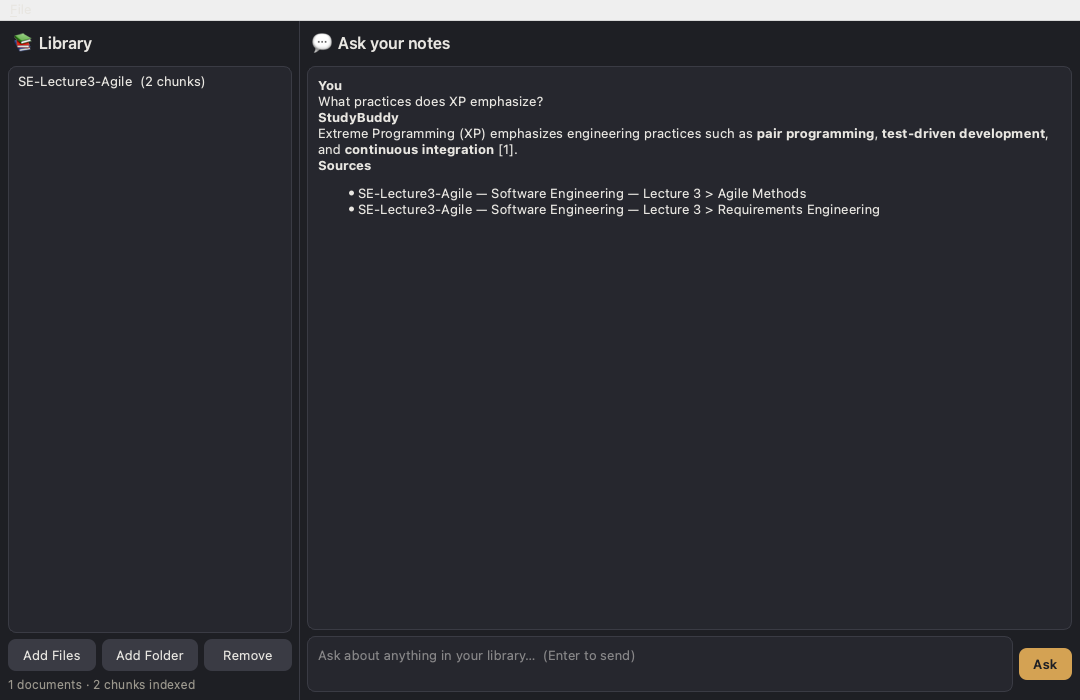
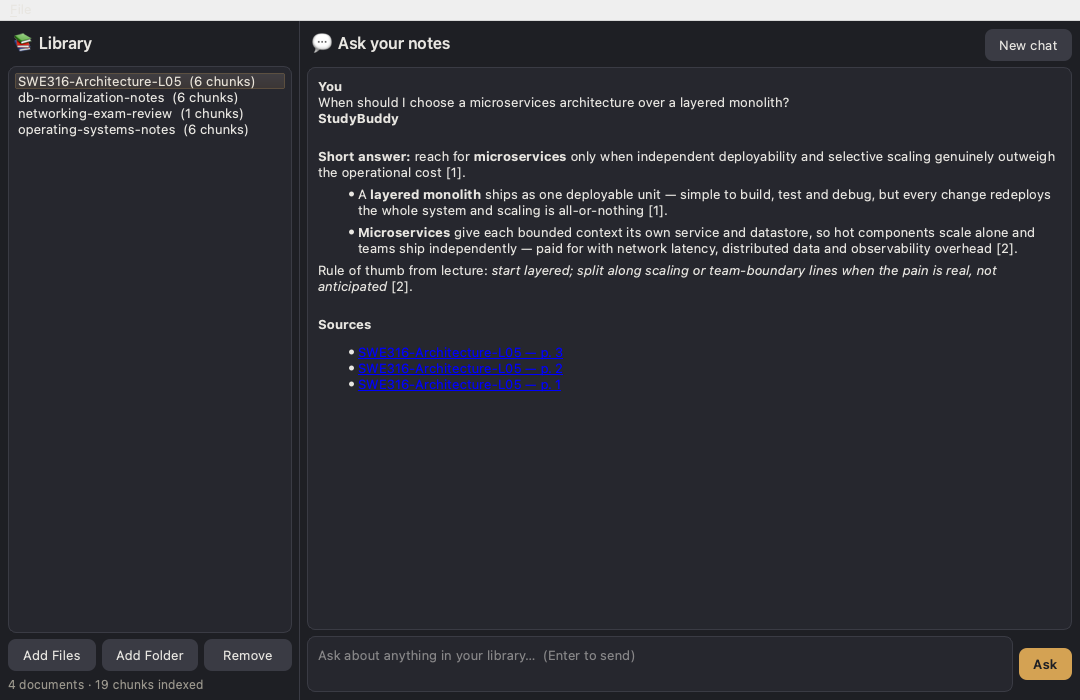
Scripted README screenshot regeneration
scripts/screenshot.py rebuilds screenshots/app.png in one offscreen command: generates sample study docs (a real multi-page PDF + md/txt notes), indexes them through the real pipeline into a temp store, and renders a canned markdown answer with genuine retrieval hits as Sources. No LLM/key/network needed; the cached embedding model is reused and real user settings/data are never touched. Regenerated app.png shows the settled chat UX (markdown rendering, clickable citations, New chat).

Generated with [Devin](https://devin.ai)

diff --git a/scripts/screenshot.py b/scripts/screenshot.py
@@ -1,0 +1,392 @@
+#!/usr/bin/env python3
+"""Regenerate ``screenshots/app.png`` with a realistic, populated app state.
+
+Run from anywhere inside the repo venv — no arguments needed:
+
+    python scripts/screenshot.py [output.png]
+
+Builds four sample study documents (one real generated PDF plus
+Markdown/TXT notes) in a temp dir, indexes them into a temp SQLite store
+through the real ``index.index_paths`` pipeline, then drives the real
+``ChatPanel`` streaming path with a canned markdown answer whose Sources
+are genuine retrieval hits from that index. No LLM provider, API key or
+network access is required — the already-downloaded local embedding
+models in the app data dir are reused as-is.
+"""
+
+from __future__ import annotations
+
+import os
+import sys
+import tempfile
+import time
+from pathlib import Path
+
+os.environ["QT_QPA_PLATFORM"] = "offscreen"  # must precede any PySide6 import
+
+REPO_ROOT = Path(__file__).resolve().parents[1]
+sys.path.insert(0, str(REPO_ROOT))  # allow running without an editable install
+
+OUT_PATH = (
+    Path(sys.argv[1]).expanduser()
+    if len(sys.argv) > 1
+    else REPO_ROOT / "screenshots" / "app.png"
+)
+
+QUESTION = (
+    "When should I choose a microservices architecture "
+    "over a layered monolith?"
+)
+
+ANSWER_MD = """\
+**Short answer:** reach for **microservices** only when independent
+deployability and selective scaling genuinely outweigh the operational
+cost [1].
+
+- A **layered monolith** ships as one deployable unit — simple to build,
+  test and debug, but every change redeploys the whole system and scaling
+  is all-or-nothing [1].
+- **Microservices** give each bounded context its own service and
+  datastore, so hot components scale alone and teams ship independently —
+  paid for with network latency, distributed data and observability
+  overhead [2].
+
+Rule of thumb from lecture: *start layered; split along scaling or
+team-boundary lines when the pain is real, not anticipated* [2].
+"""
+
+# Streamed in a few chunks — same render path as a real provider.
+ANSWER_PARTS = [
+    ANSWER_MD[: len(ANSWER_MD) // 3],
+    ANSWER_MD[len(ANSWER_MD) // 3 : 2 * len(ANSWER_MD) // 3],
+    ANSWER_MD[2 * len(ANSWER_MD) // 3 :],
+]
+
+_PDF_PAGES = [
+    [
+        (
+            "title",
+            "SWE 316 — Software Architecture\n"
+            "Lecture 5: Architectural Styles & Design Decisions",
+        ),
+        (
+            "body",
+            "Instructor: Dr. A. Khalil — Fall 2025, week 5 handout.\n\n"
+            "An architectural style is a named, reusable organisation of "
+            "components, connectors and constraints. Choosing one is a "
+            "trade-off between deployability, scalability, consistency and "
+            "the cognitive load on the team — there is no free lunch, only "
+            "different bills that arrive at different times.",
+        ),
+        ("h2", "5.1  The layered (n-tier) style"),
+        (
+            "body",
+            "The system is divided into horizontal layers — presentation, "
+            "application, domain and persistence — where each layer only "
+            "calls the layer directly beneath it. The whole application "
+            "compiles and deploys as a single unit: a layered monolith.\n\n"
+            "Strengths: simple mental model, easy local debugging, cheap "
+            "to test end-to-end, and a single deployment pipeline. "
+            "Weaknesses: a one-line change redeploys everything, layers "
+            "tend to leak abstractions over time, and scaling is "
+            "all-or-nothing — you replicate the entire monolith even if "
+            "only the reporting module is hot.",
+        ),
+    ],
+    [
+        ("h2", "5.2  Microservices"),
+        (
+            "body",
+            "The application is decomposed into small services aligned "
+            "with bounded contexts — payments, search, enrolment — each "
+            "with its own datastore and its own release cadence. Services "
+            "communicate over the network via APIs or messaging.\n\n"
+            "Strengths: independent deployability (a team ships payments "
+            "without touching search), selective scaling of hot "
+            "components, and polyglot persistence. Weaknesses: everything "
+            "a monolith hides becomes explicit — network latency and "
+            "partial failure, eventual consistency across datastores, "
+            "distributed tracing, schema versioning and an operational "
+            "surface that demands mature DevOps.",
+        ),
+        ("h2", "5.3  Event-driven (publish–subscribe)"),
+        (
+            "body",
+            "Components never call each other directly; they emit events "
+            "to a broker and react to events they subscribe to. This "
+            "decouples producers from consumers in time and identity, "
+            "which is excellent for integrations and asynchronous "
+            "workflows, but control flow becomes implicit — you read the "
+            "event topology, not a call graph, and debugging means "
+            "reconstructing causality from message logs.",
+        ),
+    ],
+    [
+        ("h2", "5.4  Pipe-and-filter"),
+        (
+            "body",
+            "Data flows through a sequence of independent transformations "
+            "— filters — connected by pipes. Compilers and batch "
+            "ETL jobs are the textbook cases. Each stage is easy to "
+            "reason about and to test in isolation, but the style fits "
+            "stream-shaped work and little else; interactive systems "
+            "fight the model.",
+        ),
+        ("h2", "5.5  Choosing a style"),
+        (
+            "body",
+            "Lecture guidance: default to a layered monolith for small "
+            "teams and early products — it is the cheapest architecture "
+            "that works. Adopt microservices when at least one of these "
+            "is true: a component's scaling profile diverges sharply "
+            "from the rest, teams need independent release cadences, or "
+            "availability requirements isolate failure domains. "
+            "Event-driven styles compose well with either and are added "
+            "for integration and asynchrony, not adopted wholesale. "
+            "Pipe-and-filter is chosen when the problem is already a "
+            "data pipeline.",
+        ),
+    ],
+]
+
+_MD_OS = """\
+# Operating Systems — Study Notes (CS 340)
+
+## Week 4: CPU Scheduling
+
+### First-Come, First-Served (FCFS)
+Jobs run in arrival order to completion. Trivially fair and starvation-free,
+but the convoy effect wrecks average waiting time: one 100 ms job ahead of
+ten 1 ms jobs makes everyone wait.
+
+### Shortest Job First (SJF)
+Run the job with the smallest next CPU burst. Provably optimal for average
+waiting time, but requires predicting burst lengths — in practice done by
+exponential averaging of previous bursts — and long jobs can starve.
+
+### Round Robin (RR)
+FCFS plus preemption: each job gets a time quantum q, then goes to the back
+of the ready queue. Quantum too large → degenerates to FCFS; too small →
+context-switch overhead dominates. Rule of thumb: q should be larger than
+~80% of bursts. Great response time, poor turnaround for long jobs.
+
+### Priority Scheduling
+Each process carries a priority; the highest runs first. SJF is priority
+scheduling where priority = predicted burst. Starvation is the hazard —
+fix it with aging: gradually raise the priority of processes that wait.
+
+## Week 5: Deadlocks
+
+Four necessary conditions — mutual exclusion, hold and wait, no preemption,
+circular wait. Break any one to prevent deadlock; alternatively avoid it
+with the banker's algorithm (keep the system in a safe state) or detect
+cycles in the resource-allocation graph and recover by killing processes.
+
+## Week 6: Memory Management
+
+Paging removes external fragmentation by fixing frame sizes; segmentation
+matches the programmer's view but reintroduces fragmentation. TLB misses
+and page faults dominate paged-system performance — the effective access
+time formula EAT = (1 − p)·ma + p·(fault cost) shows why the page-fault
+rate p must stay tiny.
+"""
+
+_MD_DB = """\
+# Databases — Normalization Revision (CS 341)
+
+## Functional Dependencies
+
+X → Y means the value of X determines the value of Y. A candidate key is a
+minimal set of attributes that functionally determines all attributes of
+the relation. Closure sets X+ tell you what a key actually determines.
+
+## The Normal Forms
+
+### 1NF — atomic values
+Every attribute holds a single value: no lists, no repeating groups, no
+composite cells. A "students" column containing "Ali, Sara, Noor" violates
+1NF outright.
+
+### 2NF — no partial dependency
+Applies to tables with composite keys: every non-key attribute must depend
+on the whole key, not part of it. If (student_id, course_id) is the key and
+student_name depends only on student_id, split it out.
+
+### 3NF — no transitive dependency
+Non-key attributes must not depend on other non-key attributes. If
+course_id → instructor and instructor → instructor_office, then
+instructor_office is transitively dependent on the key — move it to an
+instructors table.
+
+### BCNF — the stricter cousin
+For every non-trivial dependency X → Y, X must be a superkey. Catches the
+rare anomalies 3NF tolerates when a table has overlapping candidate keys.
+
+## Why Bother — Update Anomalies
+
+Denormalized tables suffer insertion anomalies (can't record a fact without
+unrelated data), deletion anomalies (deleting one fact loses another) and
+update anomalies (one logical change needs many row edits — miss one and
+the data is inconsistent).
+"""
+
+_TXT_NET = """\
+Computer Networks — final exam review sheet
+============================================
+
+OSI model, bottom to top: Physical, Data Link, Network, Transport,
+Session, Presentation, Application. Remember which layer owns what:
+routing is layer 3 (IP), reliable delivery is layer 4 (TCP), framing and
+MAC are layer 2.
+
+TCP vs UDP
+----------
+TCP: connection-oriented, reliable byte stream — three-way handshake
+(SYN, SYN-ACK, ACK), sequence numbers, retransmission, flow control via
+sliding window, congestion control (slow start, AIMD). Use it for web,
+mail, files — anything that can't lose bytes.
+
+UDP: connectionless datagrams, no guarantee of delivery, order or
+duplication — but tiny header (8 bytes) and no handshake latency. Use it
+for DNS lookups, VoIP, game state, anything where late = useless.
+
+Subnetting quick reference: /24 = 256 addresses (254 usable), /25 = 128,
+/26 = 64, /27 = 32, /28 = 16, /30 = 4 (point-to-point links).
+"""
+
+
+def _write_pdf(path: Path, pages: list[list[tuple[str, str]]]) -> None:
+    """Render one multi-page PDF with real headings (larger/bold fonts so
+    pymupdf4llm emits markdown headings) — exercises the real PDF loader."""
+    try:
+        import pymupdf
+    except ImportError:  # older PyMuPDF exposes only the `fitz` alias
+        import fitz as pymupdf
+
+    styles = {"title": (19.0, "hebo"), "h2": (14.0, "hebo"), "body": (11.0, "helv")}
+    margin, page_w, page_h = 56.0, 595.0, 842.0  # A4
+    doc = pymupdf.open()
+    for blocks in pages:
+        page = doc.new_page(width=page_w, height=page_h)
+        cursor = margin
+        for style, text in blocks:
+            size, font = styles[style]
+            rect = pymupdf.Rect(margin, cursor, page_w - margin, page_h - margin)
+            spare = page.insert_textbox(
+                rect, text, fontsize=size, fontname=font
+            )
+            if spare < 0:
+                raise RuntimeError(f"PDF text overflow in {path.name}")
+            cursor += rect.height - spare + size * 0.7
+    doc.save(str(path))
+    doc.close()
+
+
+def _write_samples(root: Path) -> list[Path]:
+    root.mkdir(parents=True, exist_ok=True)
+    pdf = root / "SWE316-Architecture-L05.pdf"
+    _write_pdf(pdf, _PDF_PAGES)
+    os_notes = root / "operating-systems-notes.md"
+    os_notes.write_text(_MD_OS, encoding="utf-8")
+    db_notes = root / "db-normalization-notes.md"
+    db_notes.write_text(_MD_DB, encoding="utf-8")
+    net_notes = root / "networking-exam-review.txt"
+    net_notes.write_text(_TXT_NET, encoding="utf-8")
+    return [pdf, db_notes, net_notes, os_notes]
+
+
+def _pump(app, ms: int = 300) -> None:
+    """Let Qt's loop run for `ms` so layout, painting and scrolling settle."""
+    deadline = time.monotonic() + ms / 1000.0
+    while time.monotonic() < deadline:
+        app.processEvents()
+        time.sleep(0.01)
+
+
+def main() -> int:
+    from PySide6.QtWidgets import QApplication
+
+    from studybuddy.core import embeddings, rag
+    from studybuddy.core.config import Settings
+    from studybuddy.core.index import index_paths
+    from studybuddy.core.store import Store
+    from studybuddy.ui.main_window import _STYLESHEET, MainWindow
+
+    # Keep the real model cache (~already-downloaded MiniLM + reranker in
+    # the user data dir) even if data_dir() is ever redirected — pinning
+    # the resolved path means fastembed finds the models, nothing
+    # re-downloads, while the SQLite store still lives in the temp dir.
+    real_model_cache = embeddings._cache_dir()
+    embeddings._cache_dir = lambda: real_model_cache
+
+    app = QApplication([sys.argv[0]])
+    app.setApplicationName("StudyBuddy")
+    app.setOrganizationName("MahmoudHaytham")
+    app.setStyleSheet(_STYLESHEET)
+
+    with tempfile.TemporaryDirectory(prefix="studybuddy-shot-") as tmp:
+        tmp = Path(tmp)
+        docs = _write_samples(tmp / "library")
+        store = Store(tmp / "studybuddy.db")
+        settings = Settings(
+            document_paths=[str(p) for p in docs],
+            top_k=3,  # keep the Sources list to ~3 entries in the shot
+            # Reranking only reorders hits; skipping it means the script
+            # needs just the small embedder cache, not the reranker model.
+            rerank=False,
+        )
+        settings.save = lambda *a, **k: None  # never touch the real config
+
+        # Index synchronously up front (deterministic), then let the
+        # window's own IndexWorker run — every file hashes unchanged, so
+        # it settles straight into the final populated status.
+        result = index_paths(
+            store,
+            docs,
+            chunk_size=settings.chunk_size,
+            chunk_overlap=settings.chunk_overlap,
+        )
+        if result.failed:
+            raise SystemExit(f"sample indexing failed: {result.failed}")
+
+        window = MainWindow(settings, store)
+        window.show()
+        for worker in list(window._workers):
+            worker.wait(120_000)
+        _pump(app)
+
+        # Genuine retrieval from the temp index — the same call the
+        # ChatWorker makes, minus the provider.
+        hits = rag.retrieve(store, settings, QUESTION)
+        if not hits:
+            raise SystemExit("retrieval returned no sources")
+
+        chat = window.chat
+        chat.add_user_message(QUESTION)
+        chat.start_answer()
+        for part in ANSWER_PARTS:
+            chat.append_token(part)
+            app.processEvents()
+        chat.finish_answer(hits)
+        _pump(app, 500)
+
+        image = window.grab()
+        OUT_PATH.parent.mkdir(parents=True, exist_ok=True)
+        if not image.save(str(OUT_PATH)):
+            raise SystemExit(f"could not save screenshot to {OUT_PATH}")
+        size = OUT_PATH.stat().st_size
+        if size < 20_000:
+            raise SystemExit(
+                f"screenshot at {OUT_PATH} looks blank ({size} bytes)"
+            )
+        print(
+            f"saved {OUT_PATH} "
+            f"({image.width()}x{image.height()}, {size} bytes)"
+        )
+        window.close()
+        _pump(app, 100)
+    return 0
+
+
+if __name__ == "__main__":
+    raise SystemExit(main())
